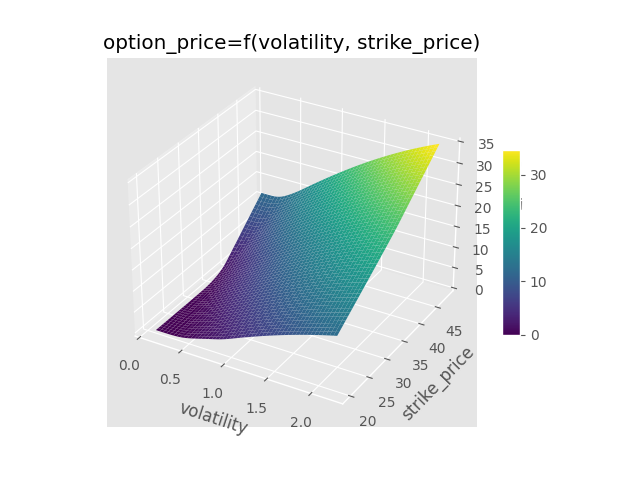
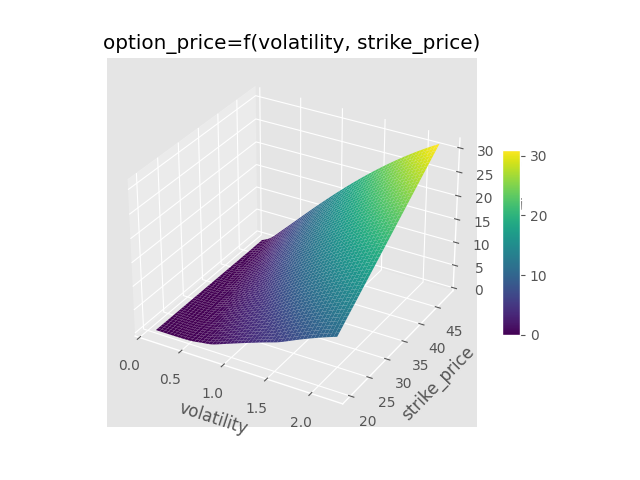
ADD: text and images to README

diff --git a/raop/stochastic_processes/stochastic_process.py b/raop/stochastic_processes/stochastic_process.py
@@ -80,7 +80,7 @@ class StochasticProcess:
         fig, ax = plt.subplots()
         ax.set_title(f"{self.model_name} stochastic process(es) from t=0 to t={t}")
         ax.set_xlabel("Time")
-        ax.set_ylabel("Stochastic process(es)")
+        ax.set_ylabel("Stochastic process(es) values")
         ax.grid(True, alpha=0.5, ls="--")
         for process in processes:
             ax.plot(time, process, linestyle="-")
@@ -100,14 +100,24 @@ log = logger
 if __name__ == "__main__":
     from raop.options.option import Option
 
+    # option_euro = Option(
+    #     name="european",
+    #     option_type="put",
+    #     underlying_price=30,
+    #     strike_price=120,
+    #     time_to_maturity=10,
+    #     risk_free_rate=0.05,
+    #     volatility=0.5
+    # )
+
     option_euro = Option(
         name="european",
-        option_type="put",
-        underlying_price=30,
-        strike_price=120,
-        time_to_maturity=10,
-        risk_free_rate=0.05,
-        volatility=0.5
+        option_type="call",
+        underlying_price=36,
+        strike_price=40,
+        time_to_maturity=1,
+        risk_free_rate=0.06,
+        volatility=0.2
     )
 
     mu = option_euro.r
@@ -124,11 +134,11 @@ if __name__ == "__main__":
 
     from raop.utils import logger
     logger.setLevel("ERROR")
-    # GBM_euro.plot(t=5, n_t=1000, n_var=2)
+    GBM_euro.plot(t=1, n_t=1000, n_var=100, save_path="../../outputs/tests_outputs/test_gbm")
     # ABM_euro.plot(t=5, n_t=1000, n_var=100)
     # OrnUhl_euro.plot(t=5, n_t=1000, n_var=100)
     # MertonJD_euro.plot(t=1, n_t=1000, n_var=20)
     # CIR_euro.plot(t=5, n_t=1000, n_var=500)
     # Heston_euro.plot(t=5, n_t=1000, n_var=100)
-    VG_euro.plot(t=5, n_t=1000, n_var=1000)
+    # VG_euro.plot(t=5, n_t=1000, n_var=1000)
 

diff --git a/raop/graphs/graph.py b/raop/graphs/graph.py
@@ -137,17 +137,17 @@ if __name__ == "__main__":
     graph_curve = Graph(dataframe_curve)
     graph_curve.plot_curve(save_path=f"{out_path}/test_curve.png")
 
-    option_amer = Option(
-        name="american",
-        option_type="put",
-        underlying_price=36,
-        strike_price=40,
-        time_to_maturity=1,
-        risk_free_rate=0.06,
-        volatility=0.2
-    )
+    # option_amer = Option(
+    #     name="american",
+    #     option_type="put",
+    #     underlying_price=36,
+    #     strike_price=40,
+    #     time_to_maturity=1,
+    #     risk_free_rate=0.06,
+    #     volatility=0.2
+    # )
 
-    dataframe_surf = option_amer.sensitivity(
+    dataframe_surf = option_euro.sensitivity(
         output="option_price",
         variable=["volatility", "strike_price"],
         variations=[(-50, 1000), (-50, 20)],

diff --git a/README.md b/README.md
@@ -1,5 +1,5 @@
 <div align="center">
-  <img src="logo-v2.png" alt="Logo" width="450">
+  <img src="logo-v3.png" alt="Logo" width="400">
 </div>
 
 ---
@@ -150,7 +150,7 @@ chosen pricing model (refer to the [Documentation](#documentation) for specific 
 
 > [!NOTE]
 > The pricing model may have to be chosen according to the option. Some models are not suitable for certain
-> types of options. In that case, an error message will be displayed. 
+> types of options: in that case, an error message will be displayed. 
 
 #### a. With ``BlackScholes`` model
 
@@ -245,12 +245,54 @@ The script above will return the following result:
 {'delta': 0.4495483275166151, 'gamma': 0.05496498097080381, 'vega': 14.246923067632347, 'theta': -2.26529310730551, 'rho': 14.01001334237125}
 ```
 
+### 4. Sensitivity analyses: plotting graphs
+
+The package also facilitates sensitivity analyses of option parameters on valuation
+outputs and enables the creation of graphs based on these analyses.
+
+```py
+from raop.pricing_models import BlackScholes, Binomial
+from raop.graphs import Graph
+
+# Sensitivity analyses of Gamma VS Underlying Price
+dataframe_curve = call_euro.sensitivity(
+    output="gamma",
+    variable="underlying_price",
+    variations=(-50, 50),
+    num=100,
+    model=BlackScholes,  # using Black-Scholes model
+)
+
+# Plot from the computed data
+graph_curve = Graph(dataframe_curve)
+graph_curve.plot_curve()
+
+# Sensitivity analyses of Option's Price VS Volatilty and Strike Price
+dataframe_surf = call_euro.sensitivity(
+    output="option_price",
+    variable=["volatility", "strike_price"],
+    variations=[(-50, 1000), (-50, 20)],
+    num=20,
+    model=Binomial,  # using Binomial model with 10 layers
+    n_layers=10,
+)
+
+# Creating a plot from the computed data
+graph_surf = Graph(dataframe_surf)
+graph_surf.plot_surface()
+```
+
+The following graphs will be plotted:
+
+<div style="display: flex; justify-content: center; gap: 20px;">
+  <img src="outputs/tests_outputs/test_curve.png" alt="curve" style="width: 40%;">
+  <img src="outputs/tests_outputs/test_surface.png" alt="surf" style="width: 40%;">
+</div>
+
+
 ## 📖 Documentation <a id="documentation"></a>
 
 Detailed package documentation can be found at ???
-
-
-
 
 [//]: # (https://github.com/banesullivan/README/blob/main/README.md?plain=1)
 
